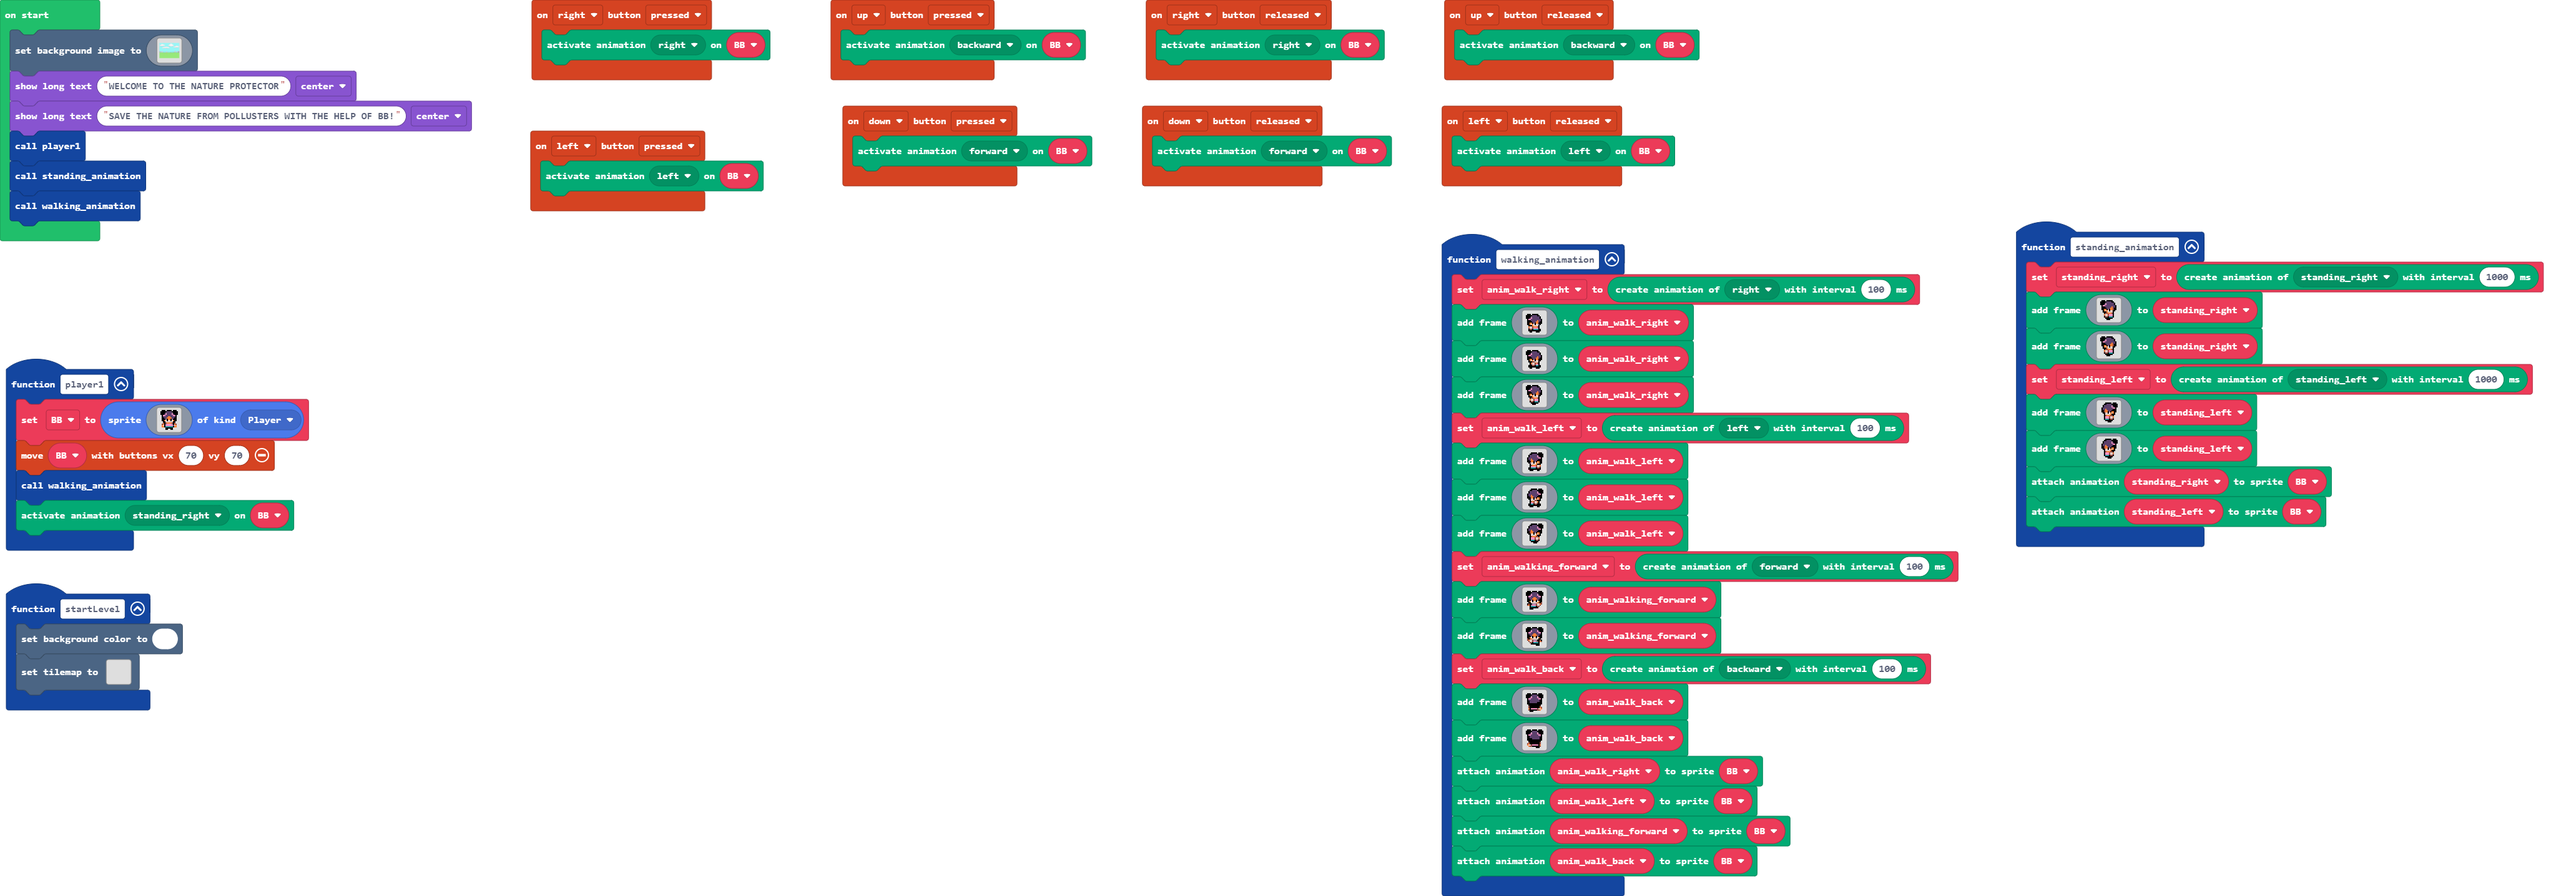
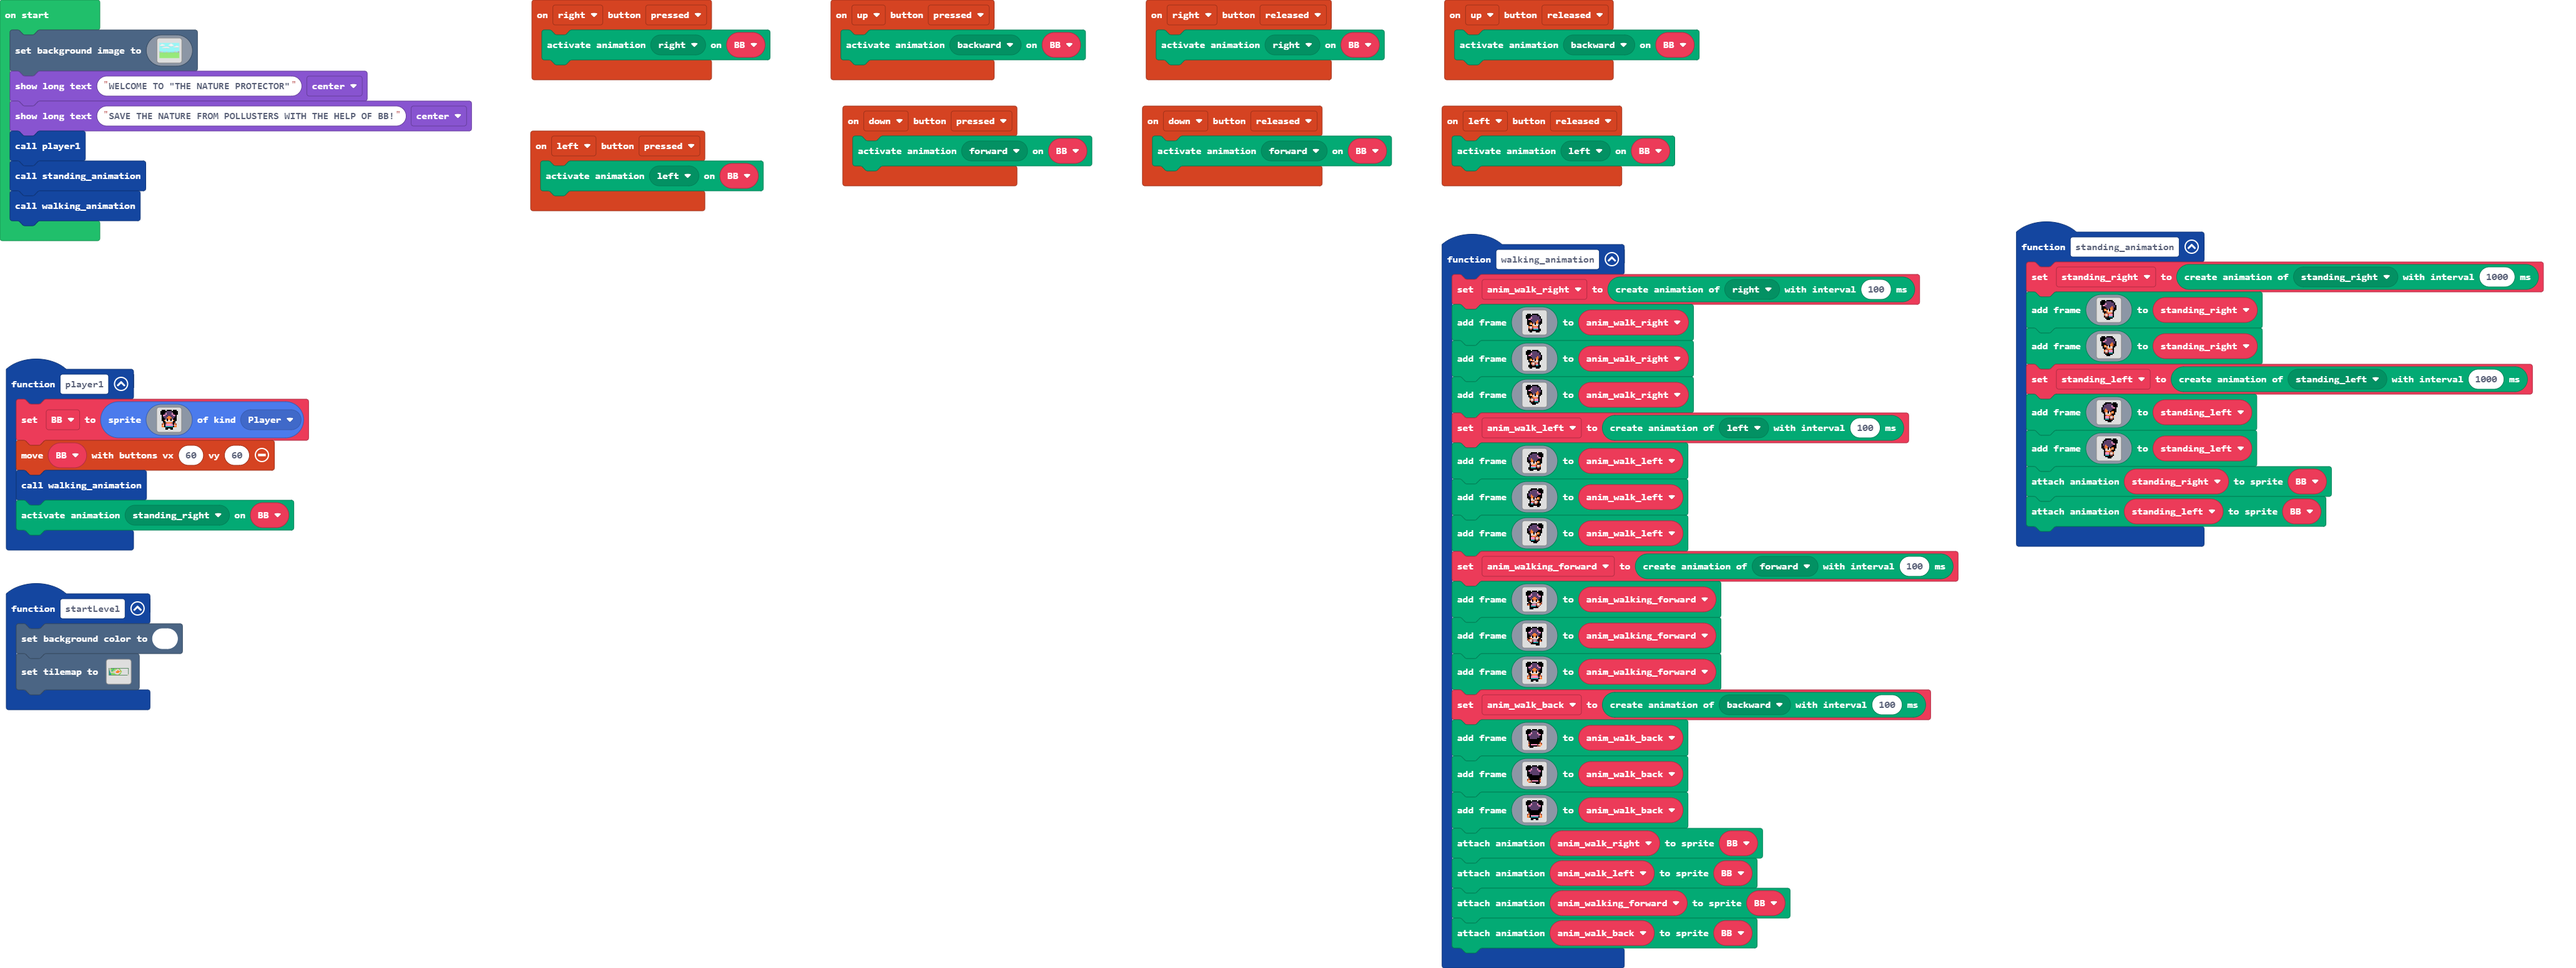
Start level map

Changed region(s): [[0.5584, 0.2145, 0.9927, 0.9805], [0.0, 0.0, 0.6515, 0.2758], [0.0, 0.3677, 0.1241, 0.7967]]

diff --git a/tilemap.g.ts b/tilemap.g.ts
@@ -14,11 +14,19 @@ namespace myTiles {
     export const tile7 = image.ofBuffer(hex``);
     //% fixedInstance jres blockIdentity=images._tile
     export const tile2 = image.ofBuffer(hex``);
+    //% fixedInstance jres blockIdentity=images._tile
+    export const tile5 = image.ofBuffer(hex``);
+    //% fixedInstance jres blockIdentity=images._tile
+    export const tile8 = image.ofBuffer(hex``);
+    //% fixedInstance jres blockIdentity=images._tile
+    export const tile9 = image.ofBuffer(hex``);
+    //% fixedInstance jres blockIdentity=images._tile
+    export const tile10 = image.ofBuffer(hex``);
 
     helpers._registerFactory("tilemap", function(name: string) {
         switch(helpers.stringTrim(name)) {
             case "level1":
[2 lines of base64/hex data omitted]
 ................................
 ................................
 ................................
@@ -31,7 +39,7 @@ namespace myTiles {
 ................................
 ................................
 ................................
-`, [myTiles.transparency16,myTiles.tile2], TileScale.Sixteen);
+`, [myTiles.transparency16,sprites.castle.tilePath2,sprites.castle.tilePath8,myTiles.tile1,sprites.castle.tileDarkGrass3,sprites.castle.tilePath5,sprites.castle.tilePath6,sprites.castle.tilePath3,sprites.castle.tileGrass1,sprites.castle.tileGrass2,sprites.castle.tilePath4,sprites.castle.tilePath7,sprites.castle.tilePath1,sprites.castle.tileGrass3,sprites.castle.tileDarkGrass2,sprites.castle.tileDarkGrass1,sprites.castle.tilePath9,sprites.dungeon.hazardLava0], TileScale.Sixteen);
         }
         return null;
     })
@@ -51,6 +59,14 @@ namespace myTiles {
             case "tile7":return tile7;
             case "myTile0":
             case "tile2":return tile2;
+            case "myTile3":
+            case "tile5":return tile5;
+            case "myTile6":
+            case "tile8":return tile8;
+            case "myTile7":
+            case "tile9":return tile9;
+            case "myTile8":
+            case "tile10":return tile10;
         }
         return null;
     })

diff --git a/main.ts b/main.ts
@@ -124,7 +124,7 @@ function player1 () {
         . . . . f f f f f f . . . . 
         . . . . f f . . f f . . . . 
         `, SpriteKind.Player)
-    controller.moveSprite(BB, 70, 70)
+    controller.moveSprite(BB, 60, 60)
     walking_animation()
     animation.setAction(BB, ActionKind.standing_right)
 }
@@ -286,6 +286,24 @@ function walking_animation () {
         . . . . f f f f f f f . . . 
         . . . . . . . . f f f . . . 
         `)
+    anim_walking_forward.addAnimationFrame(img`
+        . f f f . f f f f . f f f . 
+        f f f f f c c c c f f f f f 
+        f f f f b c c c c b f f f f 
+        f f f c 3 c c c c 3 c f f f 
+        . f 3 3 c c c c c c 3 3 f . 
+        . f c c c c 4 4 c c c c f . 
+        . f f c c 4 4 4 4 c c f f . 
+        . f f f b f 4 4 f b f f f . 
+        . f f 4 1 f d d f 1 4 f f . 
+        . . f f d d d d d d f f . . 
+        . . e f e 4 4 4 4 e f e . . 
+        . e 4 f b 3 3 3 3 b f 4 e . 
+        . 4 d f 3 3 3 3 3 3 c d 4 . 
+        . 4 4 f 6 6 6 6 6 6 f 4 4 . 
+        . . . . f f f f f f . . . . 
+        . . . . f f . . f f . . . . 
+        `)
     anim_walk_back = animation.createAnimation(ActionKind.backward, 100)
     anim_walk_back.addAnimationFrame(img`
         . . . . . . . . . . . . . . 
@@ -322,6 +340,24 @@ function walking_animation () {
         . 4 d d e 3 3 3 3 3 f 4 . . 
         . . 4 e e f f f f f f e . . 
         . . . . . . . . f f f . . . 
+        `)
+    anim_walk_back.addAnimationFrame(img`
+        . f f f . f f f f . f f f . 
+        f f f f f c c c c f f f f f 
+        f f f f b c c c c b f f f f 
+        f f f c 3 c c c c 3 c f f f 
+        . f 3 3 c c c c c c 3 3 f . 
+        . f c c c c c c c c c c f . 
+        . f f c c c c c c c c f f . 
+        . f f f c c c c c c f f f . 
+        . f f f f f f f f f f f f . 
+        . . f f f f f f f f f f . . 
+        . . e f f f f f f f f e . . 
+        . e 4 f f f f f f f f 4 e . 
+        . 4 d f 3 3 3 3 3 3 c d 4 . 
+        . 4 4 f 6 6 6 6 6 6 f 4 4 . 
+        . . . . f f f f f f . . . . 
+        . . . . f f . . f f . . . . 
         `)
     animation.attachAnimation(BB, anim_walk_right)
     animation.attachAnimation(BB, anim_walk_left)
@@ -457,7 +493,7 @@ scene.setBackgroundImage(img`
     7777777777777777777777777777777777777777777777777777777777777777777777777777777777777777777777777777777777777777777777777777777777777777777777777777777777777777
     7777777777777777777777777777777777777777777777777777777777777777777777777777777777777777777777777777777777777777777777777777777777777777777777777777777777777777
     `)
-game.showLongText("WELCOME TO THE NATURE PROTECTOR", DialogLayout.Center)
+game.showLongText("WELCOME TO \"THE NATURE PROTECTOR\"", DialogLayout.Center)
 game.showLongText("SAVE THE NATURE FROM POLLUSTERS WITH THE HELP OF BB!", DialogLayout.Center)
 player1()
 standing_animation()
